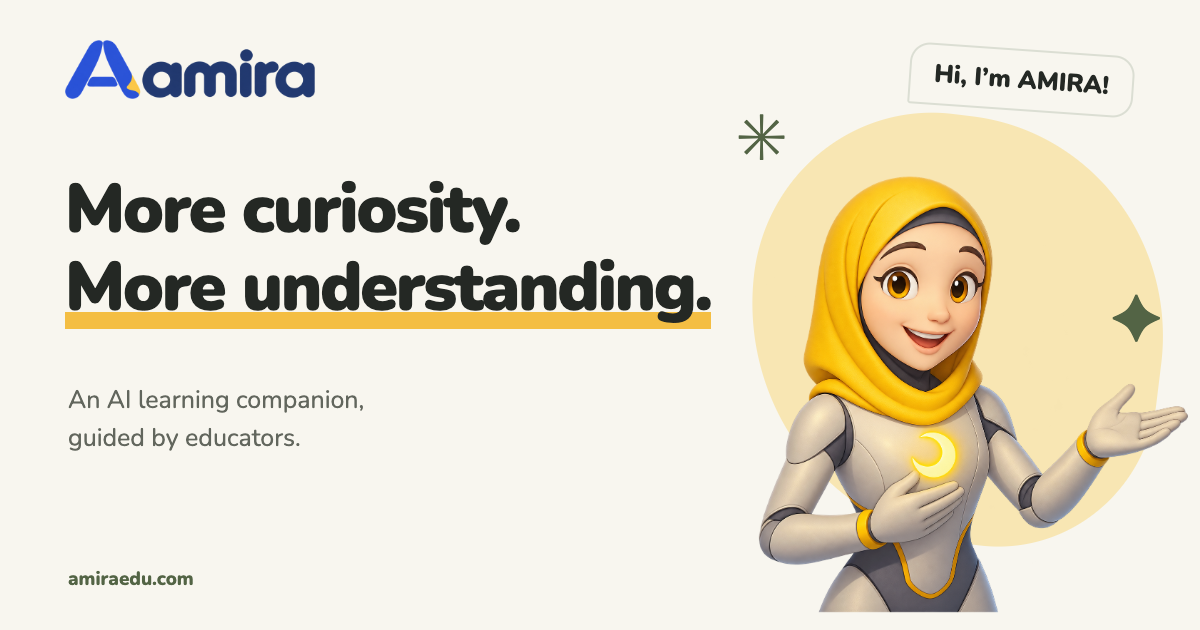
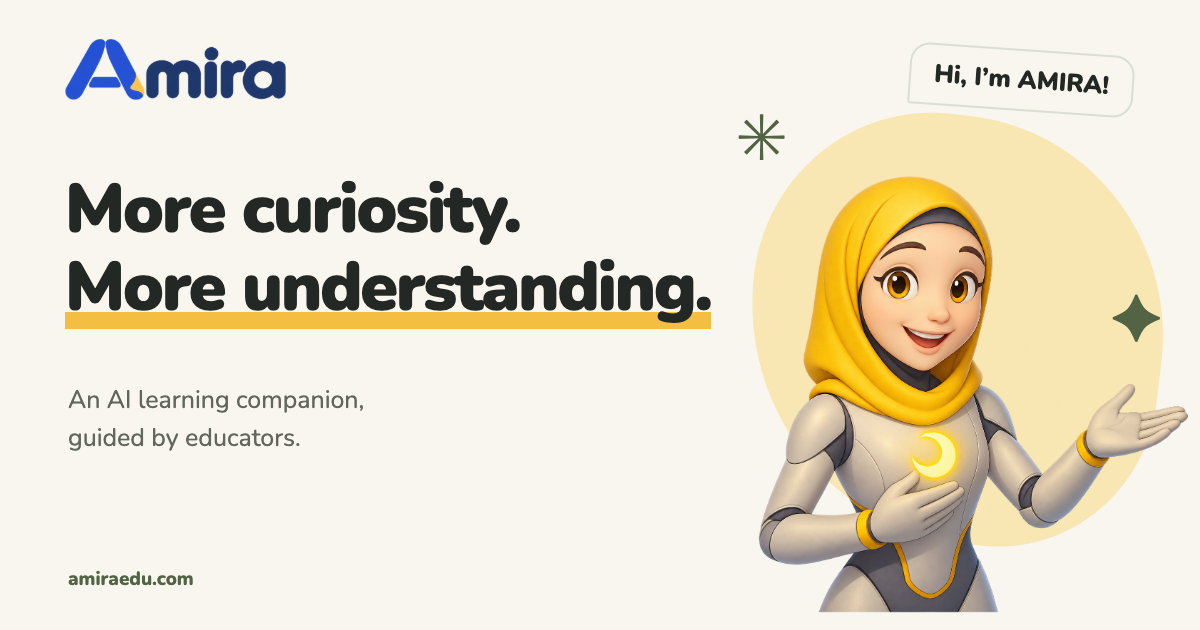
Make the A symbol the first letter of AMIRA

Changed region(s): [[0.0617, 0.0603, 0.2775, 0.181]]

diff --git a/docs/BRAND.md b/docs/BRAND.md
@@ -1,21 +1,28 @@
-# Logo AMIRA — revisi simbol A
+# AMIRA brand assets — single-A wordmark
 
-Dibuat pada 13 Oktober 2026 menggunakan built-in ImageGen. Logo menggunakan monogram A membulat dengan bentuk yang mengacu pada halaman buku dan aksen lipatan kuning. Tulisan lowercase `amira` mempertahankan karakter ramah dari versi sebelumnya.
+Revised on 13 October 2026 with built-in ImageGen. The stylized cobalt **A** is the first letter of the brand name and is followed by navy **mira**. The complete logo reads **Amira** once, with five letters.
 
-## File dan penggunaan
+## Files and usage
 
-- `amira-logo-primary-v2.png` — logo horizontal dengan simbol dan tulisan, 2172 × 724 px. Untuk header website, slide, dokumen, dan materi promosi berlatar terang.
-- `amira-symbol-v2.png` — simbol A tanpa tulisan, 1254 × 1254 px. Untuk ikon dan avatar.
+- `public/assets/brand/amira-logo-primary-v3.png` — corrected horizontal logo, 2172 × 724 px, transparent RGBA PNG. Use for the website header, presentations, and documents on light backgrounds.
+- `public/assets/brand/amira-logo-primary.png` — current primary-logo alias, identical to v3.
+- `public/assets/brand/amira-symbol-v2.png` and `amira-symbol.png` — standalone A symbol, 1254 × 1254 px. Use for icons and avatars.
+- `src/assets/amira-logo.png` — transparent-margin-trimmed primary derivative, 1700 × 468 px. Astro generates responsive WebP variants for the header and footer.
 
+Keep the logo's proportions and surrounding clear space. The A is part of the wordmark; do not add another lowercase a between the symbol and m. Standalone symbols and favicons retain their existing design.
 
-Kedua logo berupa PNG raster beresolusi tinggi dengan alpha transparan. Gunakan proporsi asli, beri ruang kosong di sekeliling logo, dan jangan meregangkan gambar. Warna acuan: navy `#243E78`, cobalt `#3157D5`, golden yellow `#FFCB49`.
+Palette references: cobalt `#3157D5`, navy `#243E78`, golden yellow `#FFCB49`. These are raster PNG assets. The current page palette is Ink & Marigold.
 
-Aset ada di `public/assets/brand/`. Salinan dengan nama `amira-logo-primary.png` dan `amira-symbol.png` juga telah diperbarui ke revisi ini. Paket ZIP dan versi lama disimpan sebagai artefak lokal dan tidak menjadi bagian dari source repository.
+Earlier A+amira artwork, previews, and ZIP packages are preserved in the ignored local archive `output/archive/single-a-logo/`.
 
-## Prompt — simbol A
+## Generation provenance
+
+Mode: built-in ImageGen. Corrected primary output: `exec-c20813a2-08c7-4d1b-a13c-8dd5c7d12bd3.png`. The preceding primary logo was used as the edit target. The full primary is copied unchanged; only transparent margins are trimmed for the optimized website derivative.
+
+## Prompt — corrected primary logo
+
+Use case: precise-object-edit. Asset type: corrected AMIRA primary horizontal logo, genuinely transparent PNG. Edit target: the supplied existing logo with a cobalt rounded A monogram followed by navy lowercase 'amira'. Correct the duplicated first letter: the blue A emblem itself is the FIRST LETTER of the name. REMOVE ONLY the first navy lowercase 'a' that currently appears immediately after the A emblem. The remaining navy lettering must read EXACTLY 'mira' (m-i-r-a), so the whole logo reads 'Amira' as ONE word and contains EXACTLY five letters: stylized A + m + i + r + a. There must be NO extra a between the A emblem and m. Preserve the existing cobalt A emblem geometry, open central counter, crossbar, rounded page-like legs and small yellow folded page-tip accent. Preserve the exact navy m, i, r, a letter shapes from the existing wordmark, their friendly rounded geometric style, i dot, bold weight and internal kerning. Bring the remaining 'mira' directly next to the A emblem with normal typographic spacing rather than a separate icon-to-wordmark gap. Optically align the A and navy letters on a common baseline; the top of the A should roughly match the height of the i dot, so the A looks like the capital first letter of a coherent word, not an oversized separate badge. Keep comfortable open space between A and m, no touching or fusion. Use the existing solid cobalt #3157D5, navy #243E78 and golden yellow #FFCB49. Single clean horizontal logo centered on a wide transparent canvas with small balanced margins. No moon, crescent, circular container, stars, speech bubbles, extra letters, slogan, added text, punctuation, gradient, shadow, halo, glow, texture, mockup or background. Smooth crisp antialiased edges, genuinely transparent alpha including internal counters. Keep the identity unchanged apart from removing the duplicated navy a and correcting optical spacing/proportions.
+
+## Prompt — existing standalone symbol
 
 Use case: logo-brand. Asset type: standalone AMIRA educational AI logo symbol, usable as a small app icon. Design ONE distinct flat vector-style symbol on a genuinely transparent background. Primary request: a friendly premium rounded geometric uppercase A monogram whose two bold legs subtly read as the pages of an open book. The education meaning comes from the A's own geometry, not from a separate book placed inside it. Use two broad continuous balanced page-like shapes meeting near a softly rounded top, an unmistakable A silhouette, a generous clear central triangular counter and a short bold crossbar. Main fill solid cobalt #3157D5. A single integrated golden-yellow #FFCB49 page-edge/tip accent may occupy only 10-15 percent of the mark. Keep it very simple, crisp and recognizable at 24 pixels, with robust rounded edges and generous gaps; must remain an A when viewed in one color. Compatible with the friendly lowercase rounded 'amira' wordmark. Center on a square transparent canvas with about 10 percent padding. No wordmark or text except the abstract A symbol. No moon, crescent, lunar motifs, stars, sparkle, orbit, circle frame, speech bubble, chat tail, robot face, graduation cap, brain, separate arrow, thin outline, tiny page lines, decorative folds, gradients, light reflections, shadow, glow, texture or 3D. Avoid resemblance to a heart, butterfly, ribbon or a generic corporate triangle. Render a simple fresh educational brand mark, not a presentation/mockup, no background or checkerboard.
-
-## Prompt — logo utama
-
-Use case: compositing. Asset type: final horizontal AMIRA logo on genuinely transparent background. Input image 1 is the OLD horizontal logo; use ONLY its lowercase navy 'amira' wordmark as the lettering reference. Input image 2 is the NEW standalone rounded cobalt A/book-page monogram with yellow page-tip accent; use this as the ONLY emblem. Replace the ENTIRE old left speech-bubble/crescent emblem with the exact new A emblem from image 2. Keep the rounded lowercase 'amira' lettering from image 1, its letter shapes, dot over the i, navy color #243E78 and kerning. Preserve the new emblem's two cobalt page-like legs, central crossbar, open triangular counter, rounded ends and integrated yellow fold at lower right exactly as in image 2. Compose one horizontal lockup: new emblem at left, wordmark at right, comfortable space between them, optically aligned; emblem slightly taller than the complete wordmark including its i dot. Keep the emblem compact, not overwhelmingly large. Small balanced transparent margins, wide 3:1 composition. This is a flat clean reusable education technology logo. Exact text: 'amira'. Completely remove all moon, crescent, lunar, circular speech-bubble, star and orbit elements from the OLD logo. No remaining piece of the old emblem. No slogan, other text, punctuation, robot, mockup, background, checkered pattern, outline, shadow, glow, texture or 3D. Use crisp smooth edges and solid cobalt #3157D5, navy #243E78 and golden-yellow #FFCB49.

diff --git a/ASSETS.md b/ASSETS.md
@@ -1,6 +1,6 @@
 # Asset provenance
 
-- `public/assets/brand/amira-logo-primary-v2.png` and `amira-logo-primary.png`: revised horizontal AMIRA logo with a rounded A monogram and yellow page-tip accent, generated with built-in ImageGen, 2172 × 724 px, transparent RGBA PNG. Final source: `exec-48a02e1d-bd1b-43c6-a61c-90c5931070f2.png`. The existing lowercase wordmark was supplied as a lettering reference.
+- `public/assets/brand/amira-logo-primary-v3.png` and `amira-logo-primary.png`: corrected horizontal AMIRA logo, 2172 × 724 px, transparent RGBA PNG. Built-in ImageGen removed the duplicated navy a from the previous A+amira lockup, so the stylized A followed by mira reads Amira once. Final source: `exec-c20813a2-08c7-4d1b-a13c-8dd5c7d12bd3.png`. The preceding primary logo was the edit target and remains in the local archive.
 - `public/assets/brand/amira-symbol-v2.png` and `amira-symbol.png`: standalone rounded A monogram with an integrated yellow page-tip accent, generated with built-in ImageGen, 1254 × 1254 px, transparent RGBA PNG. Final source: `exec-4f52be6c-7a2f-4f21-ae93-b7968822f475.png`. Logo prompts and usage notes are recorded in `docs/BRAND.md`. Previous logo assets are preserved in `output/brand/archive-crescent-v1/`.
 
 - `public/assets/amira-mascot.png`: derivative of the mascot attached by the user, processed with the built-in ImageGen tool to remove the white background. Original generated file retained in `exec-6c8d2ba2-7c07-4f10-a85c-bc4f55488914.png`. It is a generated cutout, not a byte-for-byte copy of the attachment.
@@ -10,10 +10,10 @@
 - Original reference PDFs: unchanged copies of the supplied documents retained locally in the ignored `output/private-references/` folder. They are not included in this source repository or its current build.
 - `public/assets/manrope-latin.woff2`: Manrope Latin variable font, obtained from Google Fonts and self-hosted. License in `public/assets/Manrope-OFL.txt`.
 - `public/assets/nunito-latin.woff2`: Nunito Latin variable font for the rounded education-oriented headings, obtained from Google Fonts and self-hosted. License in `public/assets/Nunito-OFL.txt`.
-- `src/assets/amira-logo.png`: transparent-margin-trimmed derivative of the approved v2 primary logo, 1963 × 464 px. The logo geometry and colors are preserved. Astro generates responsive WebP variants at 296, 320, 360, and 540 px; `src/components/BrandLogo.astro` reuses these in the header and footer.
+- `src/assets/amira-logo.png`: transparent-margin-trimmed derivative of the corrected v3 primary logo, 1700 × 468 px. The generated logo geometry and colors are preserved. Astro generates responsive WebP variants at 296, 320, 360, and 540 px; `src/components/BrandLogo.astro` reuses these in the header and footer.
 - `public/assets/brand/amira-symbol-web.webp`: optimized 128 × 128 px derivative of the approved A symbol. Used as the decorative icon in the hero, mentor showcase, and conversation; original PNG assets remain unchanged.
 - `public/favicon-32.png` and `public/favicon-64.png`: transparent PNG derivatives of the approved A symbol, fitted with 2 px clear space. `public/apple-touch-icon.png` uses the same symbol at 180 × 180 px on warm white.
-- `public/og.png`: English-language 1200 × 630 social card rendered from HTML/CSS using the approved v2 logo, existing mascot cutout, rounded typography, and Ink & Marigold page palette. Generator: `scripts/generate-social-card.cjs`; prior English card: `output/archive/palette-v1/og-before.png`; prior Indonesian card: `output/archive/english-v1/og-before.png`.
+- `public/og.png`: English-language 1200 × 630 social card rendered from HTML/CSS using the corrected A+mira logo, existing mascot cutout, rounded typography, and Ink & Marigold page palette. Generator: `scripts/generate-social-card.cjs`; prior card with A+amira: `output/archive/single-a-logo/public/og.png`.
 - Interactive showcase: illustrative HTML/CSS product concept. All conversations are prewritten examples; no live AI responses.
 - `src/assets/amira-learning-studio.png`: custom educational illustration generated with the built-in ImageGen tool using the existing AMIRA mascot as an identity reference. It depicts a fictional educator and two SMK-aged learners, not an actual implementation photo. Original generation retained at `exec-153ff351-df32-4871-b67c-2864ad47beba.png`. Astro creates responsive WebP versions (550, 800, and 1100 px wide) for the webpage.
 

diff --git a/VALIDATION.md b/VALIDATION.md
@@ -62,3 +62,11 @@ Build passed after clarifying that innovation sharing began in 2025. The generat
 ## Source repository preparation — 13 October 2026
 
 Build passed with Node requirements recorded in package metadata and the README. Dependency, build, environment, and local archive folders are ignored. Original PDFs are preserved locally outside `public/` and excluded from the commit and generated build; optional document links are omitted when those files are unavailable. The current build has 20 links with valid internal targets or file destinations. Asset/brand documentation and selected previews are included in portable repository paths.
+
+## Single-A logo correction — 13 October 2026
+
+- The primary logo was edited with built-in ImageGen so the stylized A followed by mira reads Amira once. Original PNG: 2172 × 724 px with transparent alpha; website derivative: 1700 × 468 px.
+- The shared header/footer logo, social card, current brand proof, palette comparison, repository screenshots, and hosting package use the corrected wordmark. The standalone A symbol and favicons remain suitable.
+- `npm run build` passed. Six viewport widths (320, 390, 640, 768, 1024, 1440 px) showed no overflow, broken logo images, runtime errors, or failed requests.
+- Mobile navigation checks passed. Axe default-view checks with WCAG 2 A/AA and 2.1 A/AA tags found no violations on desktop or mobile.
+- Logo typography was visually checked at 148/180 px. Header, footer, and social-card spacing were inspected. Latest measurements and screenshots are in `output/preview/single-a/`; provenance and the full edit prompt are in `docs/BRAND.md`.

diff --git a/DESIGN.md b/DESIGN.md
@@ -57,3 +57,7 @@ Three directions were compared in `output/exploration/palettes.html` and `palett
 The page now uses restrained warm neutrals, a yellow teacher note, charcoal CTAs, olive supporting details, and a charcoal learning section with a light conversation surface. Purple/blue pastel panels and differently colored selected teaching approaches were consolidated into semantic tokens. Yellow is used for fill and decorative emphasis; selected tab/stage indicators and focus rings use dark ink on light surfaces.
 
 Earlier CSS, the mentor component, page metadata, social card, and screenshots are preserved in `output/archive/palette-v1/`. The current palette leaves all English content and product-status distinctions intact. The work remains limited to the landing page.
+
+## Single-A wordmark correction — 13 October 2026
+
+The primary lockup now reads A+mira as one five-letter name. The cobalt A serves as the first letter; the duplicated navy a is removed. The corrected ImageGen artwork is used in the shared header/footer component, social preview, brand proof, and palette comparison. The A-only icon remains appropriate for favicons and mentor avatars. Earlier A+amira artwork is preserved in the local archive, while the current reusable PNG is `amira-logo-primary-v3.png`.
